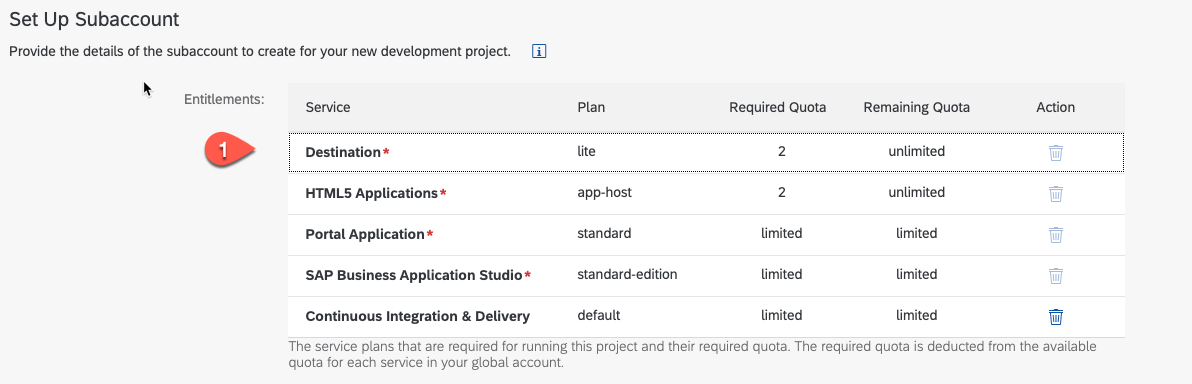
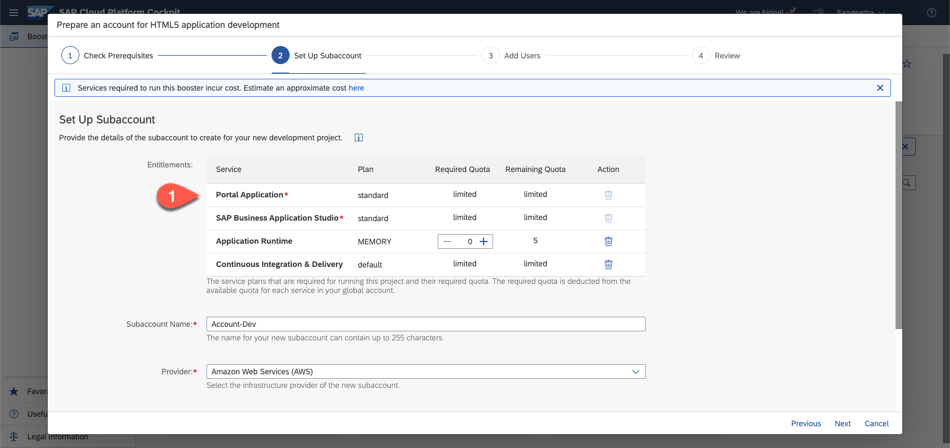
updated screenshots of booster

diff --git a/mission/scp-setup/README.md b/mission/scp-setup/README.md
@@ -48,9 +48,9 @@ Before running the booster please check for which regions and infrastructures th
 
 3.  Review the Components that will be installed with the Booster - click Start
     
-    ![Booster Overview](./images/booster3.png)
+    ![Booster Overview](./images/booster33.png)
  
-4.  Check Prerequisites - the Booster checks if you have all the entitlements that are needed to run it. There is only a check for mandatory components. As the "Continous Integration & Delivery service" is optional the Booster will not check for it. If you want to use it, be sure that you have an entitlement for this service.
+4.  Check Prerequisites - the Booster checks if you have all the entitlements that are needed to run it. There is only a check for mandatory components. As the "Continous Integration & Delivery service" is optional, the Booster will not check for it. If you want to use it, be sure that you have an Entitlement for this service.
    
     ![Check Prerequisites](./images/booster4.png)
  
@@ -58,7 +58,7 @@ Before running the booster please check for which regions and infrastructures th
     Here you set the necessary quota for running HTML5 applications on your subaccount.
     For running this mission, below mentioned quota of the services are the minimum requirements, for building additional applications in your subaccount you have to increase the quota accordingly.
 
-    If you haven't entitled the Continous Integration & Delivery service it won't apire in the list. For accounts with the consumption-based model you can delete it, if you don't want to use it.
+    If you do not entitlement for the Continous Integration & Delivery service it will not appear in the list. For accounts with the consumption-based model you can delete it, if you don't want to use it as it is an optional service.
     
     
     ![Booster Overview](./images/booster5a.png)
@@ -78,11 +78,11 @@ Before running the booster please check for which regions and infrastructures th
 
 
 
-7.  Add Users - in this section we can add additional users as administrators and developers for the subaccount. The user who is using the Booster is added automatically
+7.  Add Users - in this section we can add additional users as administrators and developers for the subaccount. The user who is using the Booster is added automatically as "Administrator" and also added as a Security Admin.
     1. Select your user origin 
     2. Add administrator
     3. Add developer
-    4. Press next.
+    4. Press Next.
 
     ![Booster Overview](./images/booster6.png)
 
@@ -113,39 +113,28 @@ In your new subaccount check the following
 
      ![Check account](./images/check-booster4.png)
 
-3. Security - Select "Role Collection" in the Security section. You can see all the role collections for the different services that are created by the Booster. There are two specific collection called **Extension_UX_Administrator** and **Extension_UX_Developer** . Those are the master collections either for admins or developer and contains all the necessary roles which are needed to access the services to build and deploy a HTML5 extension application. If you want to add additional users later, you have to assign those role collection to them.
+3. Security - Select "Role Collection" in the Security section. You can see all the role collections for the different services that are created by the Booster. There are two specific collection called **Extension_UX_Administrator** and **Extension_UX_Developer** . Those are the master collections either for Administrators or Developers and contains all the necessary roles which are needed to access the services to build and deploy a HTML5 extension application. If you want to add additional users later, you have to assign those role collection to them. Click on the role *Extension_UX_Administrator*.
    
      ![Check account](./images/check-booster2.png)
 
-4. Security - Add Portal Admin role
-   
-   The Portal_Admin is not part of the **Extension_UX_Developer** role collection. To administrate the SAP Cloud Portal you have to add this role to your user.
-   1.  Select Security - Trust Configuration
-   2.  Click on the name of your ID Service
-   
-   ![Add Portal_Admin role](./images/portalrole1.png)
-    
-   1. In the Role Collection Assignment enter your email address
-   2. Click on "Show Assignments"
-   3. Then click on "Assign Role Collection"
+4. You can check that all necessary roles already assigned for the Administrator users to access *Business Application Studio*, *Portal* and *Continous Integration & Delivery service*. 
 
-   ![Add Portal_Admin role](./images/portalrole2.png)
+     ![Check account](./images/adminRole.png)
+     
+5. Now click on *Extension_UX_Deverloper* in the previous acreen to see the assigned roles for developer. If you have addtional developers later, then add the developers in this screen by clicking the 'Edit' button and selecting the 'Identity Provider'.
 
-    1. Select the Portal_Admin role collection
-    2. Click on "Assign Role Collection"
+     ![Check account](./images/developerRole.png)
+     
+6. Go back to the Overview of your subaccount.
 
-   ![Add Portal_Admin role](./images/portalrole3.png)
-
-   Go back to the overview of your subaccount
-
-5. Select the "Subscriptions" menu. You should see that the following services have been subscribed
+7. Select the "Subscriptions" menu. You should see that the following services have been subscribed
     * SAP Business Application Studio
     * SAP Cloud Portal 
     * Continuous Integration & Delivery Service (optional)
 
      ![Check account](./images/check-booster3.png)
 
-     Click on "Go to Application" to see if you're able to access the subscriptions.
+8. Click on "Go to Application" to see if you're able to access the subscriptions.
 
 
 ## Summary
